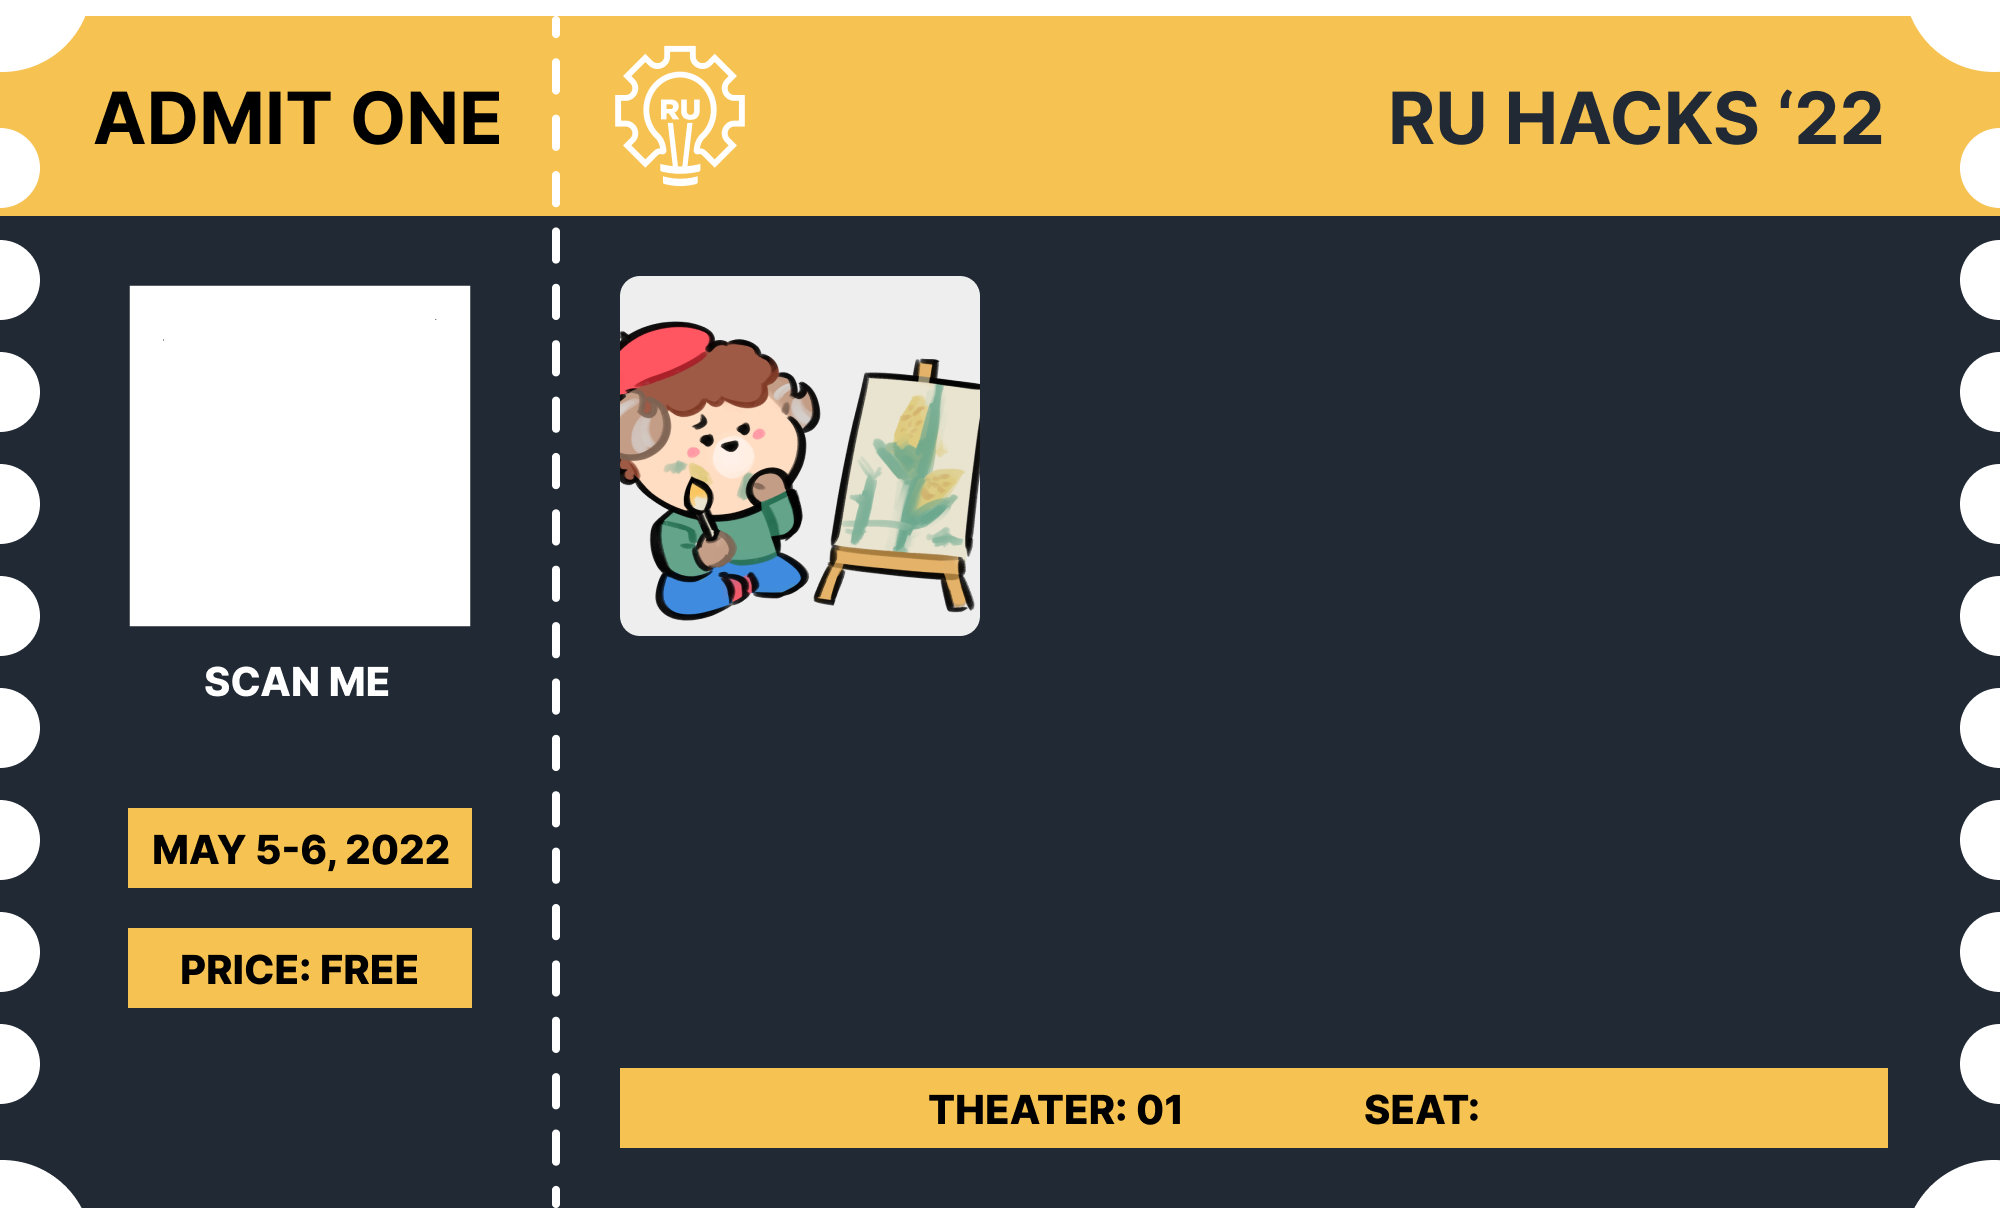
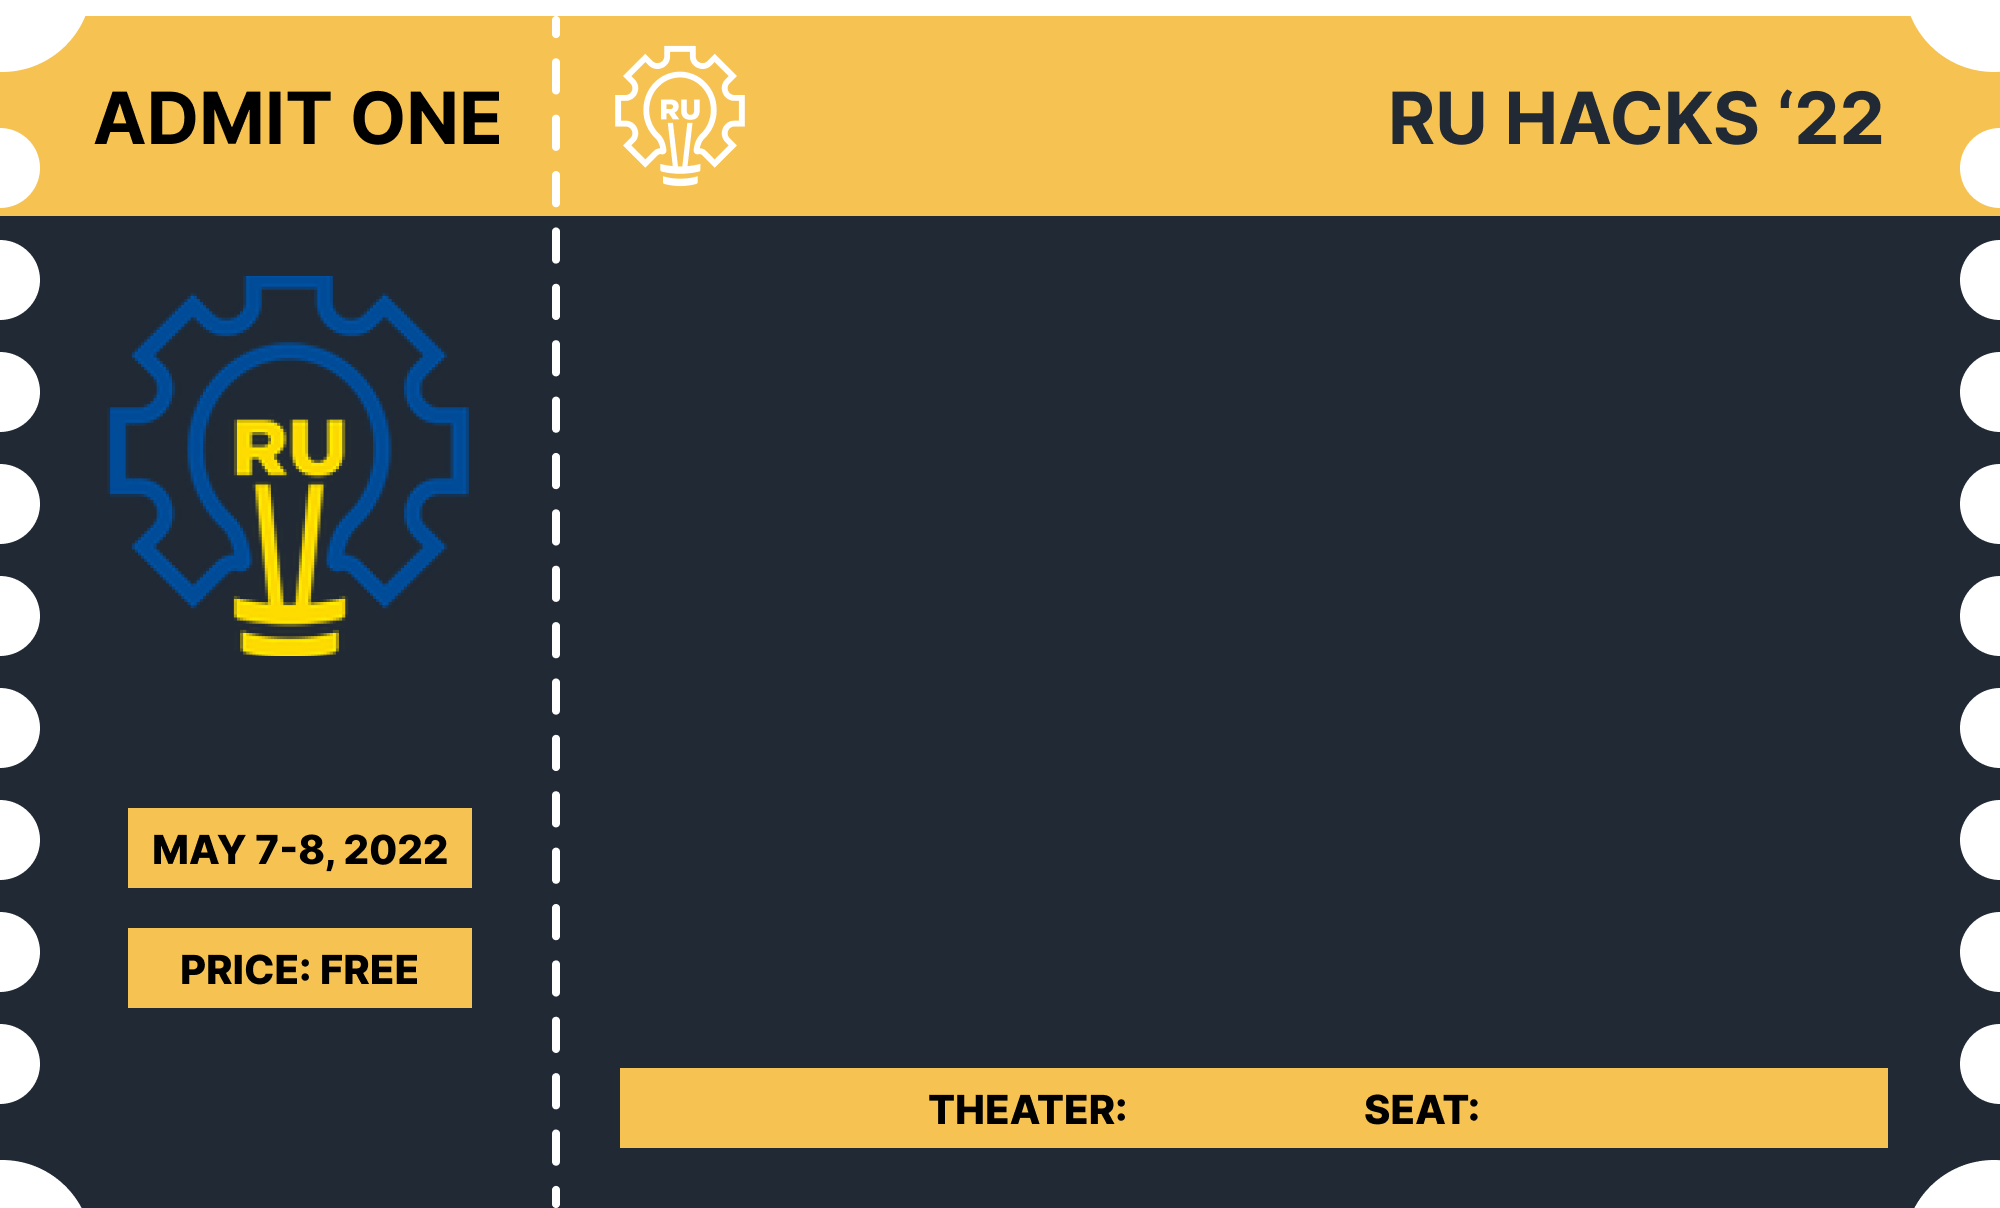
done

diff --git a/lib/manip/manip.go b/lib/manip/manip.go
@@ -1,13 +1,11 @@
 package manip
 
 import (
-	"bytes"
 	"image"
 	"main/lib/helpers"
 	"strings"
 
 	"github.com/fogleman/gg"
-	qrcode "github.com/skip2/go-qrcode"
 )
 
 type dims struct {
@@ -82,17 +80,22 @@ func DiscordPass(fields map[string]string) (image.Image, error) {
 		dc.DrawStringAnchored(strings.ToUpper(fields[dim.Name]), EOP, dim.Y, 1.0, 0.5)
 	}
 
+	dc.SetHexColor("#000")
+
 	if seat, ok := fields["seat"]; ok {
-		dc.SetHexColor("#000")
 		dc.DrawStringAnchored(strings.ToUpper(seat), 1570.0, 1106.0, 1.0, 0.5)
 	}
 
-	qr, _ := qrcode.Encode(fields["qr"], qrcode.Medium, 340)
-	if qr != nil {
-		reader := bytes.NewReader(qr)
-		img, _, _ := image.Decode(reader)
-		dc.DrawImage(img, 130, 285)
+	if seat, ok := fields["theater"]; ok {
+		dc.DrawStringAnchored(strings.ToUpper(seat), 1171.0, 1106.0, 1.0, 0.5)
 	}
+
+	// qr, _ := qrcode.Encode(fields["qr"], qrcode.Medium, 340)
+	// if qr != nil {
+	// 	reader := bytes.NewReader(qr)
+	// 	img, _, _ := image.Decode(reader)
+	// 	dc.DrawImage(img, 130, 285)
+	// }
 
 	return dc.Image(), nil
 }
